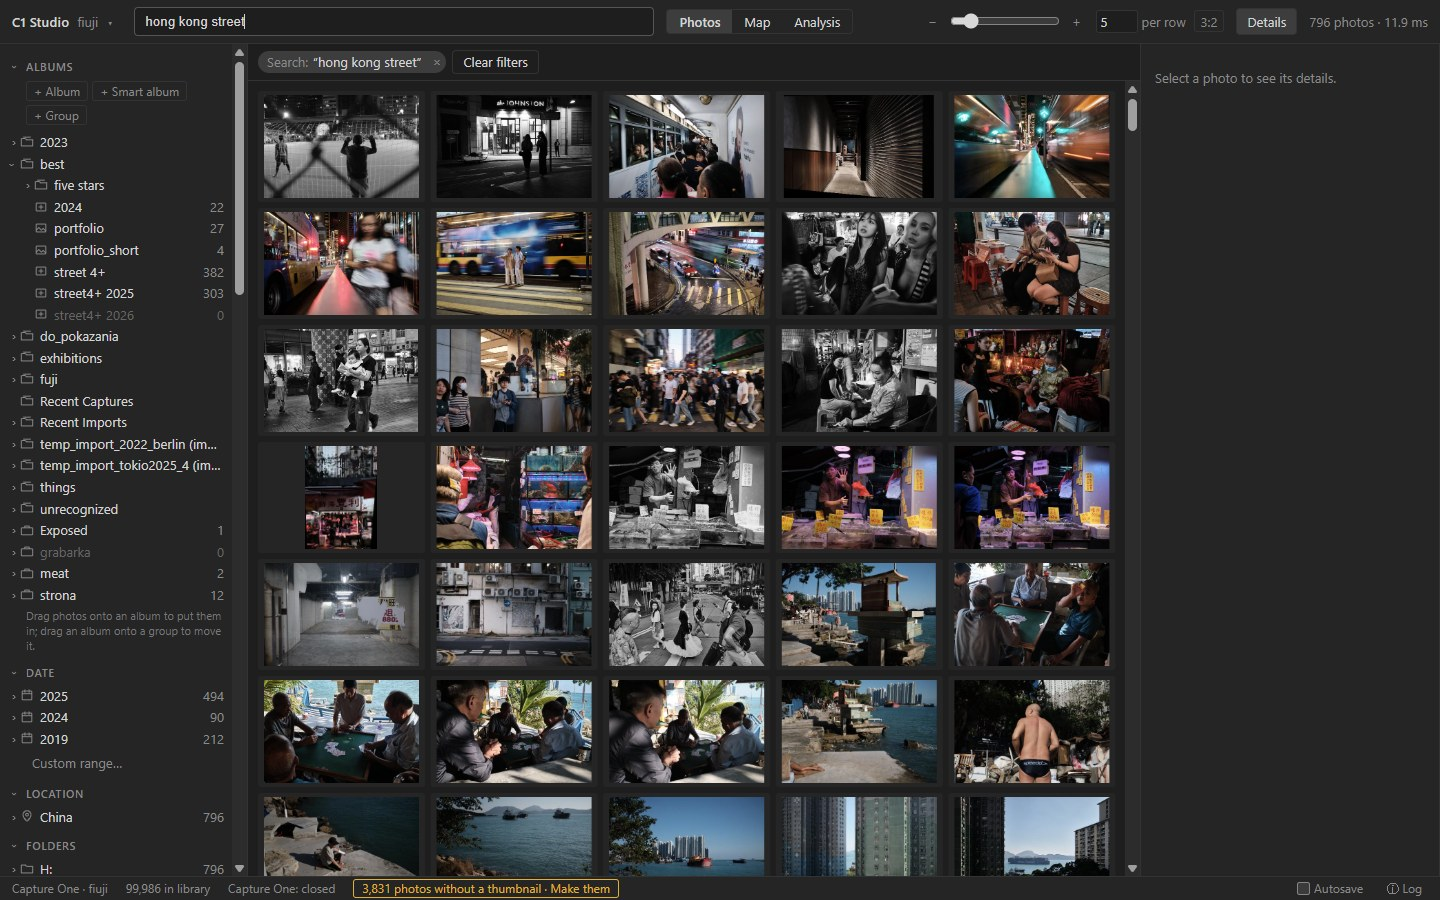
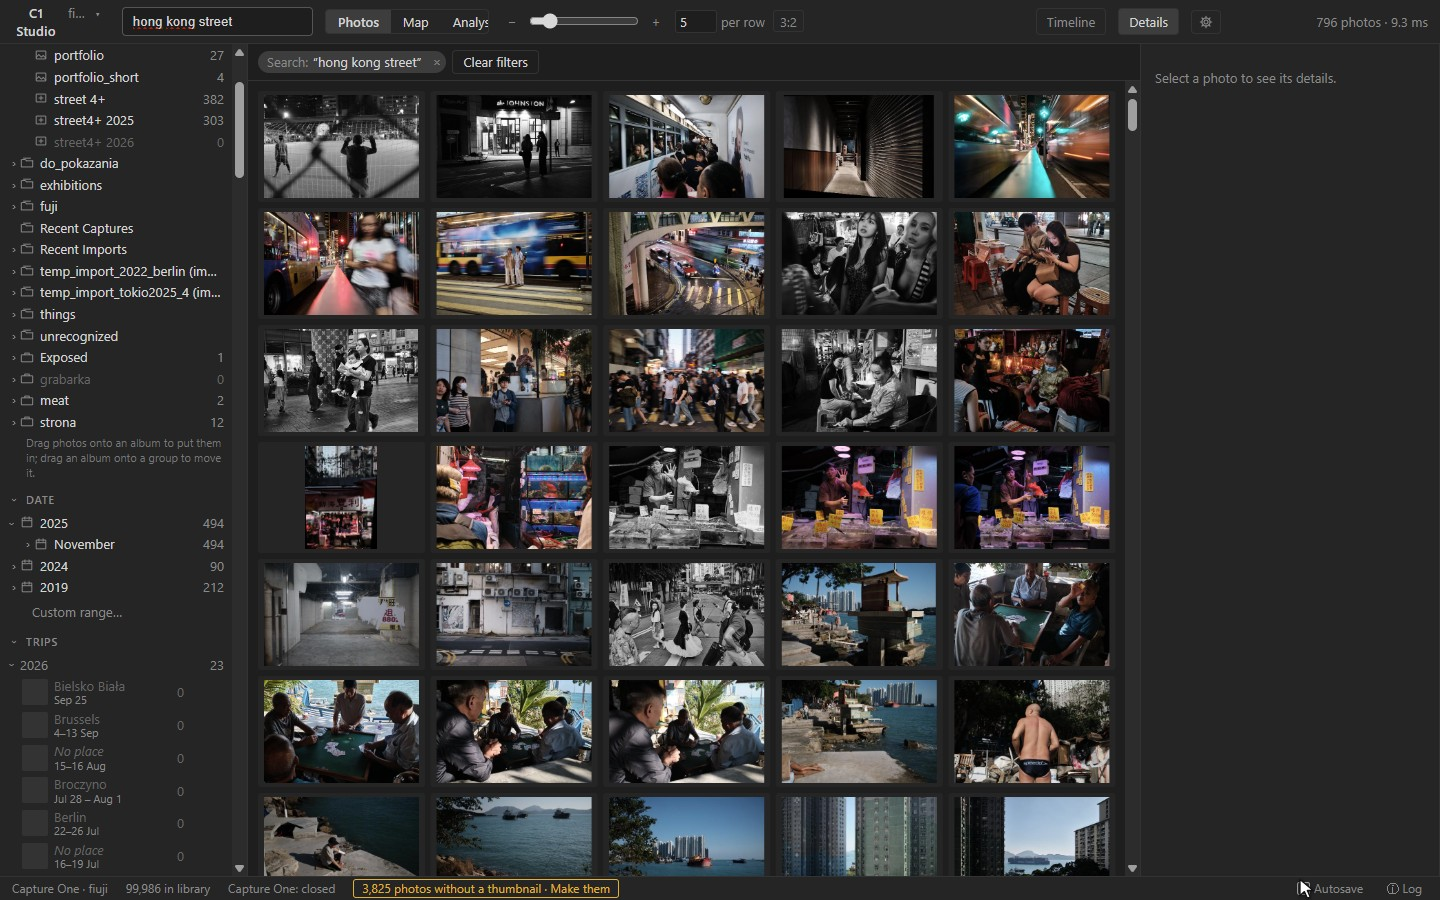
Version 0.2.0: changelog, refreshed screenshots and clips

diff --git a/CHANGELOG.md b/CHANGELOG.md
@@ -1,0 +1,34 @@
+# Changelog
+
+## 0.2.0 — 2026-10-15
+
+### New
+
+- **Trips:** trips are found from capture times and places and listed in a sidebar section, with a timeline strip and route replay on the map. Your edits to a trip (renames, dismissed spans) are kept (#16).
+- **Places by name, offline:** photos without GPS are placed on the map from their location names, using a bundled GeoNames gazetteer. A tray lists photos that are not on the map, and places can be set from neighbours' positions (#17, #18).
+- **Settings:** reorder and hide sidebar sections, a Main colour filter, an offline map option (#15).
+- **Analysis:** photos in a strip under each chart, and every group shows an exact total (#43).
+- **Feature page:** [docs/FEATURES.md](docs/FEATURES.md) has a recorded clip per feature; the clips are recorded by scripts in `tools/record` and are refreshed for this release (#20).
+
+### Improved
+
+- **Batch editing:** a fixed "Edit N photos" block in the details panel, one selection read, feedback after each edit (#41).
+- **Edits and undo:** the grid and the details panel stay where they are through edits and undo (#38).
+- **Map:** found places are centred, the view wraps across 180°, the trip view is kept, and following the grid is immediate (#39); room for the find box, the tray and the pins (#42); answers that arrive after the map pane closed are dropped (#19).
+- **Analysis counts:** whole groups are counted, things that are no group are dropped, empty charts say so (#40).
+- **Show in grid** works for photos placed by name, and with the grid following the map (#18).
+- Cheaper per-photo place lookups; queued Nominatim requests keep their pace after a wait.
+
+### Install
+
+Run `C1.Studio_0.2.0_x64-setup.exe`. It installs over 0.1.x for the current user and keeps your settings and index.
+
+## 0.1.1 — 2026-10-14
+
+- First start opens nothing: choose a catalog from the source menu (#11).
+- Release builds no longer contain file paths from the build machine (#11).
+- Installer: publisher, description and Start menu entry; per-user install; fetches WebView2 if missing (#12).
+
+## 0.1.0 — 2026-10-13
+
+First release: search, details, viewer, analysis, map, history and the `c1cat` CLI.
